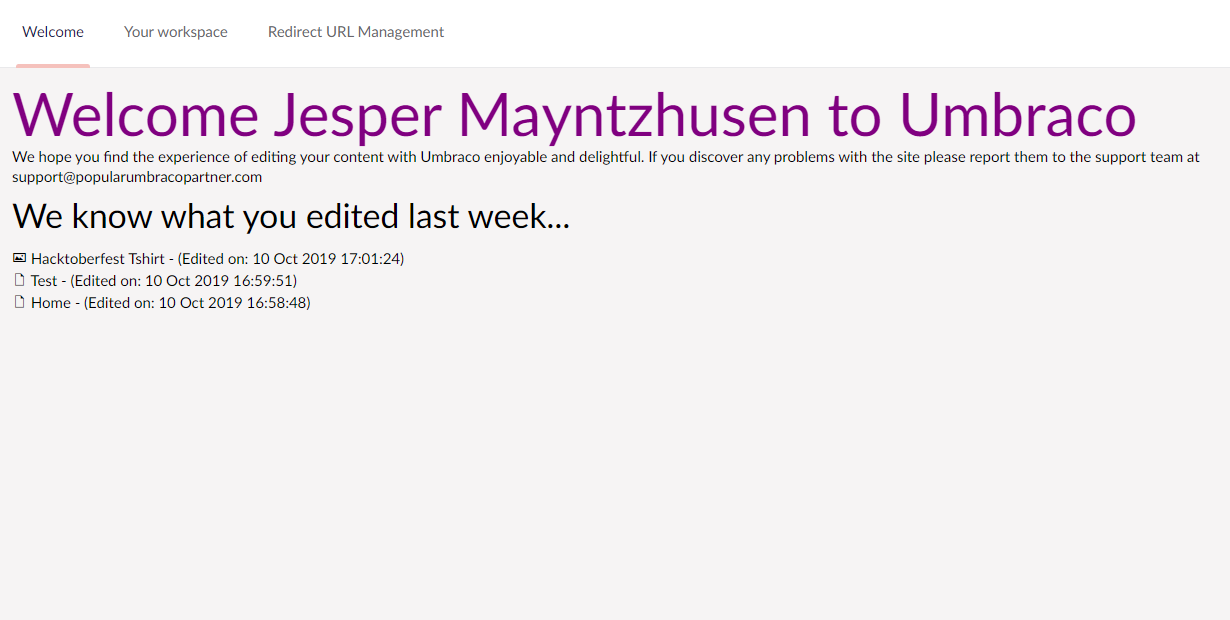
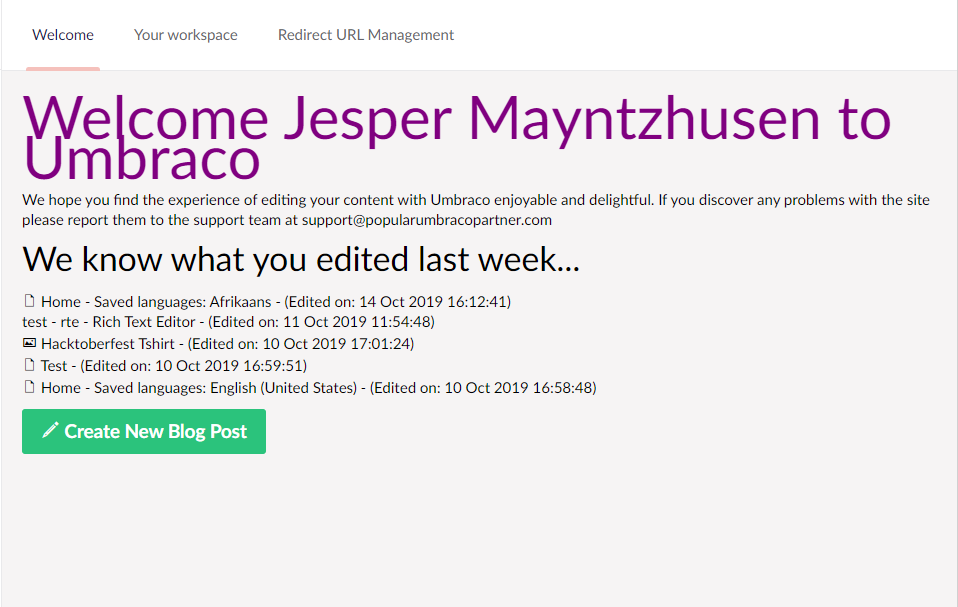
Update example to include variant info

diff --git a/Tutorials/Creating-a-Custom-Dashboard/index.md b/Tutorials/Creating-a-Custom-Dashboard/index.md
@@ -396,7 +396,9 @@ Finally update our view to use the additional retrieved entity information:
 ```js
 <h2>We know what you edited last week...</h2>
 <ul class="unstyled">
-    <li ng-repeat="logEntry in vm.UserLogHistory.items"><i class="{{logEntry.Content.icon}}"></i> <a href="/umbraco/#/{{logEntry.editUrl}}">{{logEntry.Content.name}}</a> - <span class="text-muted">(Edited on: {{logEntry.timestamp  | date:'medium'}})</span></li>
+    <li ng-repeat="logEntry in vm.UserLogHistory.items">
+        <i class="{{logEntry.Content.icon}}"></i> <a href="/Umbraco/#/{{logEntry.editUrl}}">{{logEntry.Content.name}} <span ng-if="logEntry.comment">- {{logEntry.comment}}</span></a> - <span class="text-muted">(Edited on: {{logEntry.timestamp  | date:'medium'}})</span>
+    </li>
 </ul>
 ```
 
@@ -501,10 +503,12 @@ WelcomeDashboard.html:
     <h1>Welcome {{vm.UserName}} to Umbraco</h1>
     <p>We hope you find the experience of editing your content with Umbraco enjoyable and delightful. If you discover any problems with the site please report them to the support team at <a href="mailto:">support@popularumbracopartner.com</a></p>
 
-    <h2>We know what you edited last week...</h2>
-    <ul class="unstyled">
-        <li ng-repeat="logEntry in vm.UserLogHistory.items"><i class="{{logEntry.Content.icon}}"></i> <a href="/Umbraco/#/{{logEntry.editUrl}}">{{logEntry.Content.name}}</a> - <span class="text-muted">(Edited on: {{logEntry.timestamp  | date:'medium'}})</span></li>
-    </ul>
+<h2>We know what you edited last week...</h2>
+<ul class="unstyled">
+    <li ng-repeat="logEntry in vm.UserLogHistory.items">
+        <i class="{{logEntry.Content.icon}}"></i> <a href="/Umbraco/#/{{logEntry.editUrl}}">{{logEntry.Content.name}} <span ng-if="logEntry.comment">- {{logEntry.comment}}</span></a> - <span class="text-muted">(Edited on: {{logEntry.timestamp  | date:'medium'}})</span>
+    </li>
+</ul>
 
     <div>
         <a class="btn btn-primary btn-large" href="/umbraco/#/content/content/edit/1075?doctype=BlogPost&create=true">
